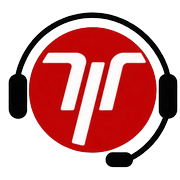
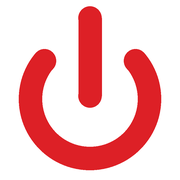
feat: aplica a marca RevisOn no sistema
- Logo horizontal RevisOn no menu lateral e na tela de login
- Ícone da aba e do atalho no celular: botão de ligar vermelho (o "O" da marca),
  desenhado por scripts/gerar-marca.py
- Título da página, criador do Excel e descrições passam a usar "RevisOn"
- Fontes da marca em docs/marca/ (PNG, SVG, versão escura e selo);
  a logo antiga sai do repositório
- README, CONTRIBUTING, ROTEIRO e docs/arquitetura.md atualizados

diff --git a/apps/web/src/components/Layout.tsx b/apps/web/src/components/Layout.tsx
@@ -33,8 +33,14 @@ export default function Layout() {
       {/* ---------- Menu lateral ---------- */}
       <aside className={`sidebar ${menuAberto ? 'is-open' : ''}`} aria-label="Menu principal">
         <div className="sidebar-brand">
-          {/* Logo original sobre a faixa cinza-clara, alinhada com a barra superior */}
-          <img className="brand-logo" src="/marca/logo.webp" alt="Gestão Pós-Venda" width={360} height={127} />
+          {/* Logo RevisOn sobre a faixa cinza-clara, alinhada com a barra superior */}
+          <img
+            className="brand-logo"
+            src="/marca/logo.webp"
+            alt="RevisOn — Gestão Pós-Venda"
+            width={360}
+            height={108}
+          />
           {/* Sem subtítulo aqui: o nome "Maranhão Motos" já aparece na barra superior */}
         </div>
 

diff --git a/apps/web/index.html b/apps/web/index.html
@@ -2,7 +2,7 @@
 <html lang="pt-BR">
   <head>
     <meta charset="UTF-8" />
-    <!-- Ícone da aba e do atalho no celular (gerados por scripts/gerar-marca.py) -->
+    <!-- Ícone da aba e do atalho no celular: botão de ligar do RevisOn (gerados por scripts/gerar-marca.py) -->
     <link rel="icon" type="image/png" href="/marca/icone.png" />
     <link rel="apple-touch-icon" href="/marca/icone-180.png" />
     <meta name="viewport" content="width=device-width, initial-scale=1.0" />
@@ -12,7 +12,7 @@
       href="https://fonts.googleapis.com/css2?family=Montserrat:wght@400;500;600;700;800&display=swap"
       rel="stylesheet"
     />
-    <title>Pós-Venda Oficina | Maranhão Motos</title>
+    <title>RevisOn · Gestão Pós-Venda | Maranhão Motos</title>
   </head>
   <body>
     <div id="root"></div>

diff --git a/apps/web/src/pages/Login.tsx b/apps/web/src/pages/Login.tsx
@@ -45,7 +45,13 @@ export default function Login() {
       <form className="card border-0 shadow tela-login-card" onSubmit={enviar} noValidate>
         {/* Logo colorida (texto preto) sobre o fundo branco do cartão */}
         <div className="tela-login-marca">
-          <img className="brand-logo" src="/marca/logo.webp" alt="Gestão Pós-Venda" width={360} height={127} />
+          <img
+            className="brand-logo"
+            src="/marca/logo.webp"
+            alt="RevisOn — Gestão Pós-Venda"
+            width={360}
+            height={108}
+          />
           <div className="brand-sub">Maranhão Motos</div>
         </div>
 

diff --git a/apps/api/src/services/relatoriosExcel.ts b/apps/api/src/services/relatoriosExcel.ts
@@ -98,7 +98,7 @@ function valores(c: Contagem): (number | null)[] {
  */
 export async function gerarExcelProducao(relatorio: Relatorio, descricaoFiltro: string): Promise<Buffer> {
   const livro = new ExcelJS.Workbook();
-  livro.creator = "Gestão Pós-Venda — Maranhão Motos";
+  livro.creator = "RevisOn — Gestão Pós-Venda · Maranhão Motos";
   livro.created = new Date();
 
   const periodo = mesPorExtenso(relatorio.mes);

diff --git a/apps/web/src/styles/_layout.scss b/apps/web/src/styles/_layout.scss
@@ -52,7 +52,7 @@
   background: $sidebar-brand-bg;
   border-bottom: 3px solid $primary;
 
-  // Logo (public/marca/logo.webp), alinhada à esquerda como os itens do menu.
+  // Logo RevisOn (public/marca/logo.webp), alinhada à esquerda como os itens do menu.
   // A altura manda; a largura acompanha (width/height no <img> só reservam
   // o espaço antes de carregar).
   .brand-logo {

diff --git a/scripts/gerar-marca.py b/scripts/gerar-marca.py
@@ -1,34 +1,40 @@
 """
-scripts/gerar-marca.py — Gera os arquivos da logo usados pelo sistema
+scripts/gerar-marca.py — Gera os arquivos da marca RevisOn usados pelo sistema
 
-A logo original (fundo transparente, 2000x667) fica em
-docs/marca/logo-original.webp. Este script recorta e redimensiona essa imagem
-e grava em apps/web/public/marca/:
+Fontes (em docs/marca/):
+  revison-horizontal.png   logo horizontal, fundo transparente (2322x872)
+  revison-horizontal.svg   mesma logo em vetor (texto em Arial Black)
+  revison-selo.png         versão em selo redondo (não usada nas telas)
 
-  logo.webp           logo completa → login e topo do menu lateral
-  icone.png (256px)   só o fone com o "M" → ícone da aba do navegador
-  icone-180.png       mesmo ícone, 180px → atalho na tela do celular
+Este script grava em apps/web/public/marca/:
+
+  logo.webp           logo horizontal → login e topo do menu lateral
+  icone.png (256px)   botão de ligar vermelho (o "O" de RevisOn) → ícone da aba
+  icone-180.png       mesmo ícone, 180px, com fundo branco → atalho na tela do celular
+
+O ícone é DESENHADO aqui (não recortado da logo): o "O" da logo é inclinado e
+encosta no "s" e no "n", e um recorte ficaria com pedaços das letras.
 
 Como rodar (precisa do Pillow: pip install pillow), a partir da raiz do repo:
   python scripts/gerar-marca.py
 
-Rode de novo sempre que a logo original mudar.
+Rode de novo sempre que a logo mudar.
 """
 
+import math
 from pathlib import Path
 
-from PIL import Image
+from PIL import Image, ImageDraw
 
 RAIZ = Path(__file__).resolve().parent.parent
-ORIGINAL = RAIZ / "docs" / "marca" / "logo-original.webp"
+ORIGINAL = RAIZ / "docs" / "marca" / "revison-horizontal.png"
 DESTINO = RAIZ / "apps" / "web" / "public" / "marca"
 
-# Na original, o desenho (fone + círculo) vai até a coluna 808 e o texto
-# "GESTÃO PÓS-VENDA" começa na 841: cortamos no meio do vão.
-FIM_DO_ICONE = 825
+# Vermelho da marca (o mesmo da logo e de $primary no Sass)
+VERMELHO = (221, 32, 38, 255)
 
-# Largura final da logo completa: o dobro do maior tamanho exibido na tela,
-# para ficar nítida em telas de alta densidade (celulares, notebooks retina).
+# Largura final da logo: o dobro do maior tamanho exibido na tela, para ficar
+# nítida em telas de alta densidade (celulares, notebooks retina).
 LARGURA_LOGO = 720
 
 
@@ -38,29 +44,58 @@ def recortar(img: Image.Image, margem: int = 8) -> Image.Image:
     return img.crop((max(x0 - margem, 0), max(y0 - margem, 0), x1 + margem, y1 + margem))
 
 
-def quadrado(img: Image.Image, lado: int) -> Image.Image:
-    """Centraliza a imagem num quadrado transparente de `lado` pixels."""
-    img = img.copy()
-    img.thumbnail((lado, lado), Image.LANCZOS)
-    fundo = Image.new("RGBA", (lado, lado), (0, 0, 0, 0))
-    fundo.paste(img, ((lado - img.width) // 2, (lado - img.height) // 2), img)
-    return fundo
+def botao_de_ligar(lado: int, fundo: tuple[int, int, int, int] = (0, 0, 0, 0)) -> Image.Image:
+    """
+    Desenha o símbolo de ligar (anel aberto em cima + barra) num quadrado.
+
+    Desenha 4x maior e reduz no fim (supersampling), para as bordas ficarem lisas.
+    As pontas do anel e da barra são arredondadas, como na logo.
+    """
+    s = lado * 4
+    img = Image.new("RGBA", (s, s), fundo)
+    d = ImageDraw.Draw(img)
+
+    cx, cy = s / 2, s * 0.55  # centro do anel um pouco abaixo do meio (a barra sobe)
+    raio = s * 0.33  # raio da linha central do anel
+    espessura = s * 0.13
+    abertura = 50  # graus livres no topo do anel, metade para cada lado
+
+    # Anel: no Pillow o ângulo 0 aponta para a direita e cresce no sentido horário;
+    # o topo é 270°.
+    inicio, fim = 270 + abertura, 270 - abertura + 360
+    caixa = (cx - raio - espessura / 2, cy - raio - espessura / 2, cx + raio + espessura / 2, cy + raio + espessura / 2)
+    d.arc(caixa, inicio, fim, fill=VERMELHO, width=round(espessura))
+
+    # Pontas redondas do anel
+    for ang in (inicio, fim):
+        r = math.radians(ang)
+        px, py = cx + raio * math.cos(r), cy + raio * math.sin(r)
+        d.ellipse((px - espessura / 2, py - espessura / 2, px + espessura / 2, py + espessura / 2), fill=VERMELHO)
+
+    # Barra vertical, do alto do quadrado até perto do centro do anel
+    topo, base = s * 0.1, cy - raio * 0.05
+    d.line((cx, topo, cx, base), fill=VERMELHO, width=round(espessura))
+    for py in (topo, base):
+        d.ellipse((cx - espessura / 2, py - espessura / 2, cx + espessura / 2, py + espessura / 2), fill=VERMELHO)
+
+    return img.resize((lado, lado), Image.LANCZOS)
 
 
 def main() -> None:
     DESTINO.mkdir(parents=True, exist_ok=True)
     original = Image.open(ORIGINAL).convert("RGBA")
 
-    # Logo completa
+    # Logo horizontal
     logo = recortar(original)
     altura = round(logo.height * LARGURA_LOGO / logo.width)
     logo = logo.resize((LARGURA_LOGO, altura), Image.LANCZOS)
     logo.save(DESTINO / "logo.webp", quality=90)
+    print(f"logo.webp: {logo.width}x{logo.height}")
 
-    # Ícone: só a parte do desenho, sem o texto
-    icone = recortar(original.crop((0, 0, FIM_DO_ICONE, original.height)), margem=4)
-    quadrado(icone, 256).save(DESTINO / "icone.png", optimize=True)
-    quadrado(icone, 180).save(DESTINO / "icone-180.png", optimize=True)
+    # Ícone da aba: fundo transparente (fica bom em abas claras e escuras)
+    botao_de_ligar(256).save(DESTINO / "icone.png", optimize=True)
+    # Atalho do celular: o iPhone preenche a transparência de preto, então usa fundo branco
+    botao_de_ligar(180, fundo=(255, 255, 255, 255)).save(DESTINO / "icone-180.png", optimize=True)
 
     for f in sorted(DESTINO.iterdir()):
         print(f"{f.name}: {f.stat().st_size // 1024} KB")

diff --git a/README.md b/README.md
@@ -1,6 +1,8 @@
-# Gestão do Pós-Venda — Maranhão Motos
+# RevisOn — Gestão do Pós-Venda · Maranhão Motos
 
-Sistema web para organizar o **pós-venda de revisões da oficina** da Maranhão Motos. Ele substitui as planilhas compartilhadas e o cruzamento manual de relatórios do Cloud por uma base central, com fila de ligações, histórico de contatos e indicadores de produção da equipe.
+<img src="docs/marca/revison-horizontal.png" alt="RevisOn — Gestão Pós-Venda" width="360">
+
+O **RevisOn** é o sistema web para organizar o **pós-venda de revisões da oficina** da Maranhão Motos. Ele substitui as planilhas compartilhadas e o cruzamento manual de relatórios do Cloud por uma base central, com fila de ligações, histórico de contatos e indicadores de produção da equipe.
 
 > **Status:** em desenvolvimento inicial. A lógica do sistema segue as planilhas reais da operação, descritas em detalhe em [docs/regras-de-negocio.md](docs/regras-de-negocio.md). O passo a passo está em [ROTEIRO.md](ROTEIRO.md).
 
@@ -381,4 +383,4 @@ As planilhas em `Documentos/` têm **nome, CPF e celular de clientes reais**. A 
 - [docs/regras-de-negocio.md](docs/regras-de-negocio.md): lógica extraída das planilhas
 - [docs/implantacao.md](docs/implantacao.md): como publicar, variáveis de produção, primeiro Admin e backups
 - [docs/apresentacao-proposta.pptx](docs/apresentacao-proposta.pptx): proposta apresentada à diretoria
-- Identidade visual: <https://www.maranhaomotos.com.br/>. Logo do sistema em [docs/marca/](docs/marca/); para refazer as versões usadas nas telas (logo e ícone da aba), rode `python scripts/gerar-marca.py` (precisa do Pillow)
+- Identidade visual: <https://www.maranhaomotos.com.br/>. Marca do sistema (**RevisOn**: o "O" é um botão de ligar) em [docs/marca/](docs/marca/): logo horizontal em PNG e SVG, versão para fundo escuro e selo redondo. Para refazer as versões usadas nas telas (logo e ícone da aba), rode `python scripts/gerar-marca.py` (precisa do Pillow)

diff --git a/docs/arquitetura.md b/docs/arquitetura.md
@@ -170,10 +170,11 @@ gestao-pos-venda/
 │   ├── implantacao.md            Como publicar, produção e backups (Etapa 11)
 │   ├── regras-de-negocio.md      Lógica extraída das planilhas reais
 │   ├── paleta-de-cores.txt
-│   ├── marca/logo-original.webp  Logo original (fundo transparente), fonte das versões em apps/web/public/marca/
+│   ├── marca/                    Marca RevisOn: revison-horizontal.png/.svg (fonte das telas),
+│   │                             revison-horizontal-escura.svg (fundo escuro) e revison-selo.png
 │   └── apresentacao-proposta.pptx
 ├── scripts/
-│   └── gerar-marca.py            Gera a logo das telas e os ícones a partir da logo original
+│   └── gerar-marca.py            Gera a logo das telas (da logo horizontal) e desenha o ícone da aba
 ├── Documentos/                   Planilhas REAIS (ignorada pelo Git, tem CPF/telefone)
 ├── backups/                      Backups do banco (ignorada pelo Git, tem dados pessoais)
 ├── .prettierignore               O que o Prettier não formata

diff --git a/CONTRIBUTING.md b/CONTRIBUTING.md
@@ -1,6 +1,6 @@
 # Guia de contribuição
 
-Como contribuir com o **Sistema de Gestão do Pós-Venda — Maranhão Motos**. Estes padrões valem para qualquer pessoa que mexer no projeto, inclusive para revisões feitas com ajuda de IA.
+Como contribuir com o **RevisOn**, o sistema de gestão do pós-venda da Maranhão Motos. Estes padrões valem para qualquer pessoa que mexer no projeto, inclusive para revisões feitas com ajuda de IA.
 
 > Antes de começar, leia o [README.md](README.md) (como rodar), o [docs/arquitetura.md](docs/arquitetura.md) (como o código está organizado) e o [docs/regras-de-negocio.md](docs/regras-de-negocio.md) (como a operação funciona).
 

diff --git a/ROTEIRO.md b/ROTEIRO.md
@@ -179,6 +179,7 @@ Reproduzir o relatório mensal de produção que hoje é feito à mão:
 - [x] Preparar a publicação: a API serve as telas em produção (um endereço só, exigência do cookie de login), cabeçalhos de segurança (`helmet`), script do primeiro Admin (`db:producao`) e o guia [docs/implantacao.md](docs/implantacao.md)
 - [ ] Hospedagem: escolher com a TI (servidor da empresa ou serviço gerenciado) e publicar seguindo o guia
 - [ ] Piloto com a oficina e coleta de feedback
+- [x] Marca **RevisOn** aplicada: logo no menu e no login, ícone da aba (botão de ligar) e título da página
 
 ---
 
